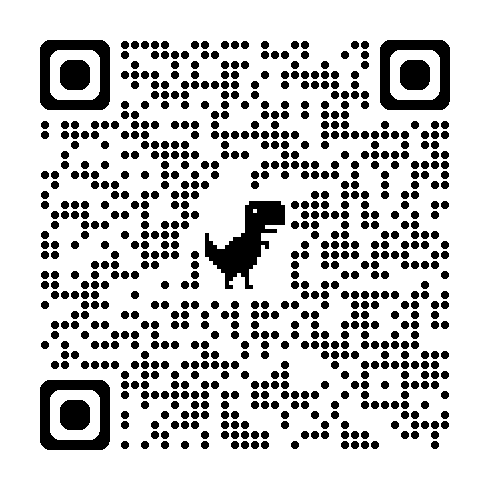
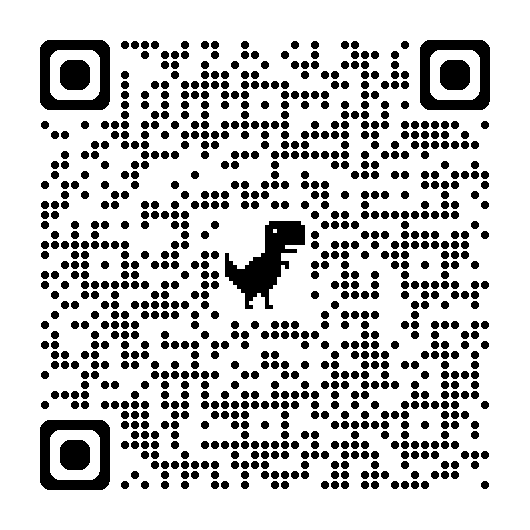
updating event pages with short links and qr code

diff --git a/README.md b/README.md
@@ -10,6 +10,25 @@
 sujee@node51.com  &nbsp; •  &nbsp; [Portfolio](https://sujee.dev/)
 
 
+
+## Events
+
+- [2025-02-13: AI Alliance Office hour - Workshop : RAG with Data Prep Kit + Milvus + Granite](events/2025-02-13__AI-alliance-office-hour-RAG-workshop.md)
+
+- [2025-02-06: AI Alliance Office hour - Data Preparation with Data Prep Kit](events/2025-02-06__AI-alliance-office-hour-data-prep-kit.md)
+
+- [2025-01-30: AI Alliance Office hour - Data Preparation with Docling](events/2025-01-30__AI-alliance-office-hour-docling.md)
+
+- **[Data Prep Kit workshop - Latest](events/data-prep-kit-workshop.md)**
+
+- [2024-10-21: Workshop @ IBM Tech XChange](events/2024-10-21__IBM-tech-xchange-workshop.md) , Las Vegas, NV
+
+- [2024-09-21: Hands on RAG workshop @ Data Riders meetup](events/2024-09-21__RAG-workshop-data-riders.md) - Hacker Dojo, Mountain View, CA
+
+- [2024-08-08: Open Source AI Demo Nigh, San Francisco, CA](events/2024-08-08__open-source-ai-demo-night.md)
+
+
+
 ## Introducing Data Prep Kit (DPK)
 
 Whether you're performing RAG (Retrieval-Augmented Generation) or fine-tuning a model, a significant portion of your time will be dedicated to cleaning (de-duping, removing markups, etc.) and shaping the data.
@@ -29,26 +48,11 @@ Noteworthy  features:
 - tokenizing and chunking
 - generating embeddings
 
+
+
 ## Getting Ready
 
 [Getting Ready](getting-ready.md) guide
-
-## Events
-
-- [2025-02-13: AI Alliance Office hour - Workshop : RAG with Data Prep Kit + Milvus + Granite](events/2025-02-13__AI-alliance-office-hour-RAG-workshop.md)
-
-- [2025-02-06: AI Alliance Office hour - Data Preparation with Data Prep Kit](events/2025-02-06__AI-alliance-office-hour-data-prep-kit.md)
-
-- [2025-01-30: AI Alliance Office hour - Data Preparation with Docling](events/2025-01-30__AI-alliance-office-hour-docling.md)
-
-- **[Data Prep Kit workshop - Latest](events/data-prep-kit-workshop.md)**
-
-- [2024-10-21: Workshop @ IBM Tech XChange](events/2024-10-21__IBM-tech-xchange-workshop.md) , Las Vegas, NV
-
-- [2024-09-21: Hands on RAG workshop @ Data Riders meetup](events/2024-09-21__RAG-workshop-data-riders.md) - Hacker Dojo, Mountain View, CA
-
-- [2024-08-08: Open Source AI Demo Nigh, San Francisco, CA](events/2024-08-08__open-source-ai-demo-night.md)
-
 
 ## How to Run the Code
 

diff --git a/events/2025-02-13__AI-alliance-office-hour-RAG-workshop.md b/events/2025-02-13__AI-alliance-office-hour-RAG-workshop.md
@@ -1,8 +1,8 @@
-# Workshop: RAG with Data Prep Kit + Milvus + Granite (2025-02-13)
+# AI Alliance Office Hour: Workshop - RAG with Data Prep Kit + Milvus + Granite (2025-02-13)
 
-## 🔗 [bit.ly/4hfckIe](https://bit.ly/4hfckIe)
+## 🔗 [bit.ly/3CE8Z6x](https://bit.ly/3CE8Z6x)
 
-<img src="2025-01__AI-alliance-office-hour-qr1.png" width="400px">
+<img src="2025-02-13__AI-alliance-office-hour-qr1.png" width="400px">
 
 
 ## Event Details

diff --git a/events/2025-01-30__AI-alliance-office-hour-docling.md b/events/2025-01-30__AI-alliance-office-hour-docling.md
@@ -1,6 +1,6 @@
-# AI Alliance Office Hour (2025-01-30)
+# AI Alliance Office Hour: Docling (2025-01-30)
 
-## 🔗 [bit.ly/4hfckIe](https://bit.ly/4hfckIe)
+## 🔗 [bit.ly/41dDZDF](https://bit.ly/41dDZDF)
 
 <img src="2025-01__AI-alliance-office-hour-qr1.png" width="400px">
 

diff --git a/events/2025-02-06__AI-alliance-office-hour-data-prep-kit.md b/events/2025-02-06__AI-alliance-office-hour-data-prep-kit.md
@@ -1,4 +1,4 @@
-# AI Alliance Office Hour (2025-01-30)
+# AI Alliance Office Hour: In depth look at Data Prep Kit (2025-02-06)
 
 ## 🔗 [bit.ly/4hfckIe](https://bit.ly/4hfckIe)
 
